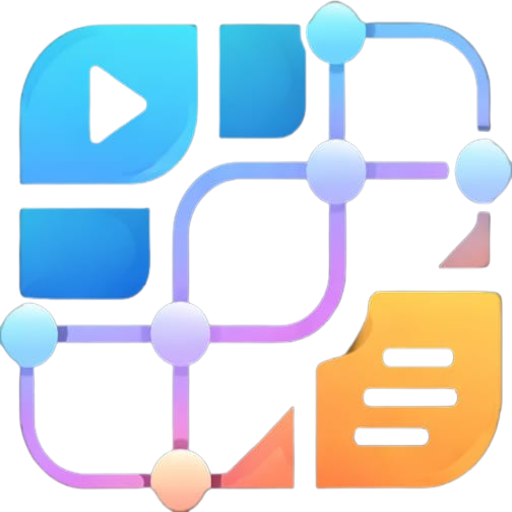
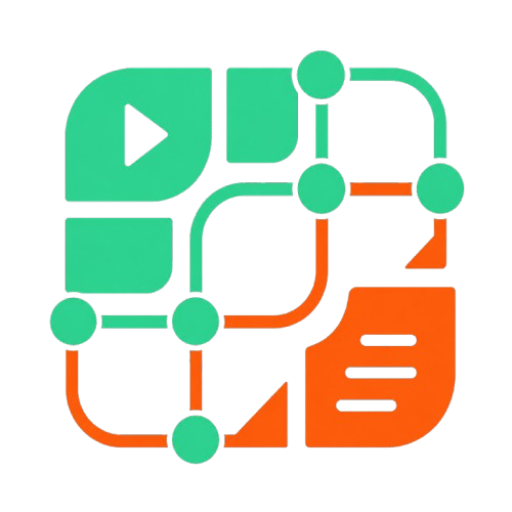
new

diff --git a/content/homePlaceholders.ts b/content/homePlaceholders.ts
@@ -85,7 +85,7 @@ export const placeholderChromeContent: ChromeContent = {
   brandTagline: "The Operating System for Modern Education",
   siteUrl: siteMeta.domain,
   contactEmail: siteMeta.supportEmail,
-  logoUrl: "/logo.png",
+  logoUrl: "/logo.png?v=2",
   logoAlt: "Classgrid logo",
   navbarMenuItems: [
     {
